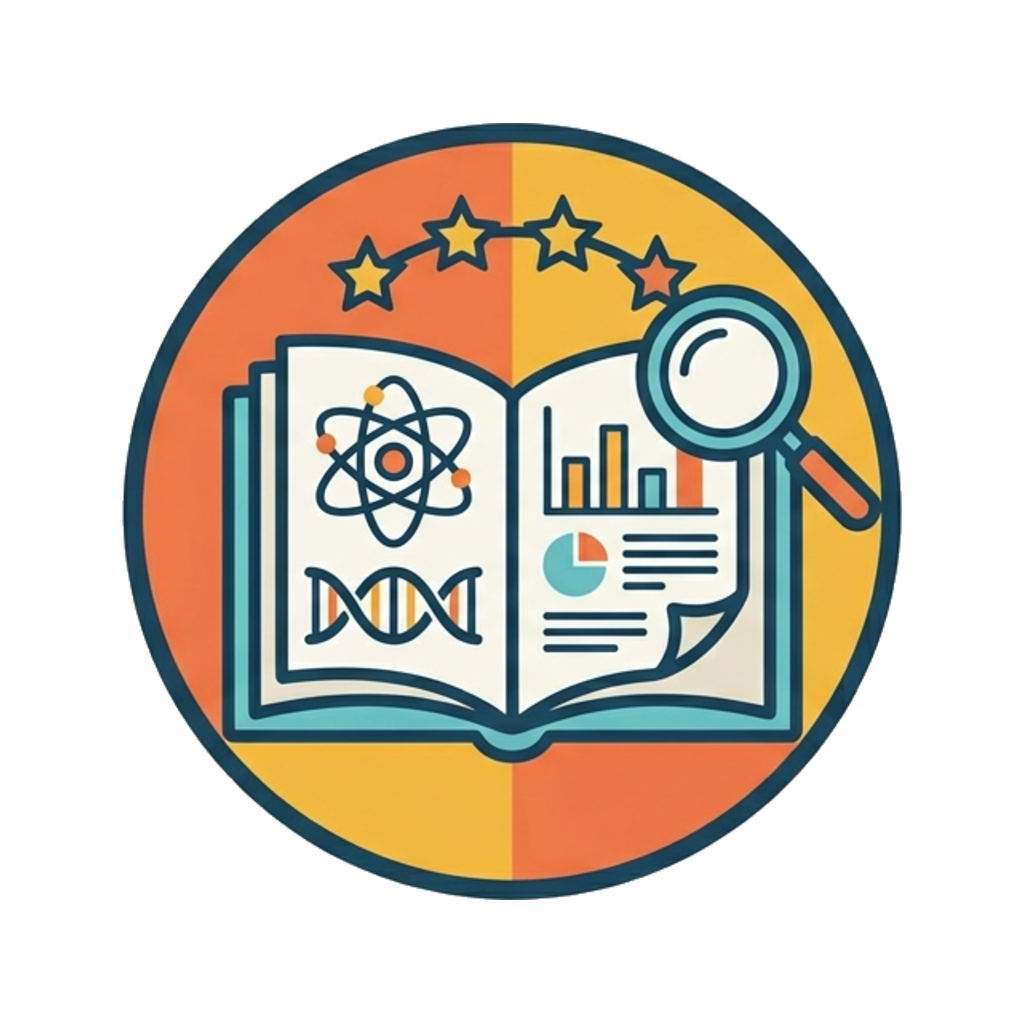
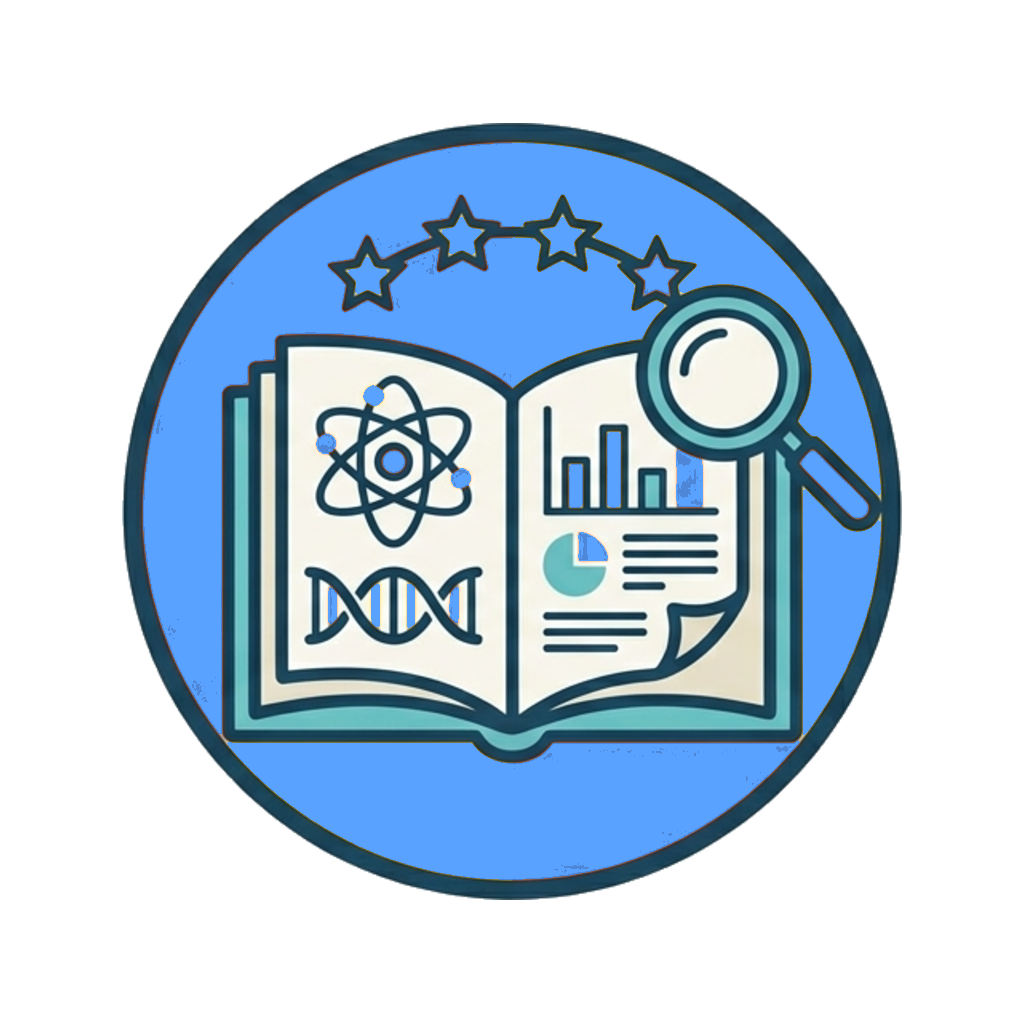
tweaks

diff --git a/_includes/modals.html b/_includes/modals.html
@@ -87,7 +87,7 @@
             {% endif %}
             <ul class="list-inline item-details">
               {% if post.client %}
-              <li>Client:
+              <li>Role:
                 <strong>{{ post.client }}</strong>
               </li>
               {% endif %}